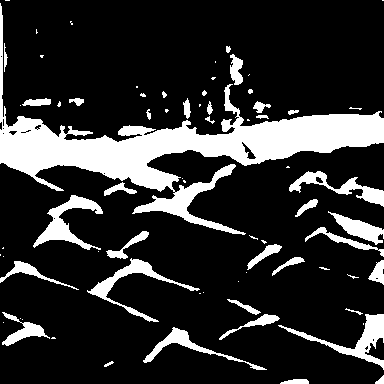
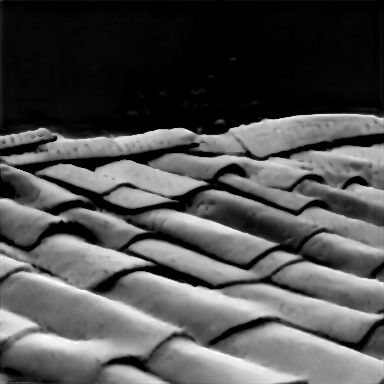
SSAO

diff --git a/Lichen Growth Simulation/SSAO.py b/Lichen Growth Simulation/SSAO.py
@@ -1,0 +1,78 @@
+import numpy as np
+import matplotlib.pyplot as plt
+import cv2
+
+# Load the input depth image
+input_file = 'wall3_depth.png'
+depth_map = cv2.imread(f'./images/input_depth/{input_file}', cv2.IMREAD_GRAYSCALE)
+img_height, img_width = depth_map.shape  # Obtain the dimensions of the image
+
+# SSAO Parameters
+num_samples = 64  # Number of samples
+#radius = 10.0  # Hemisphere radius for samples
+bias = 0.1  # To avoid errors due to the same depth
+occlusion_map = np.zeros((img_height, img_width))
+min_radius = 1  # Minimum radius
+max_radius = min(img_width, img_height) / 8  # Maximum radius, 1/8 of image size
+
+'''
+# Generate random samples on the hemisphere
+def generate_samples(num_samples, radius):
+    samples = []
+    for _ in range(num_samples):
+        theta = np.random.uniform(0, np.pi / 2)  # Hemisphere angle
+        phi = np.random.uniform(0, 2 * np.pi)  # Angle around the vertical axis
+        x = radius * np.sin(theta) * np.cos(phi)
+        y = radius * np.sin(theta) * np.sin(phi)
+        z = radius * np.cos(theta)
+        samples.append((x, y, z))
+    return np.array(samples)
+'''
+
+# Generate random samples on 2D circle
+def generate_samples(num_samples, min_radius, max_radius):
+    samples = []
+    for _ in range(num_samples):
+        angle = np.random.uniform(0, 2 * np.pi)  # Random angle
+
+        # Samples are evenly spread out
+        rad_aux = np.random.uniform(0, 1)
+        radius = np.sqrt(rad_aux) * max_radius
+
+        x = radius * np.cos(angle)  # Coordinate x
+        y = radius * np.sin(angle)  # Coordinate y
+
+        samples.append((x, y))
+    return np.array(samples)
+
+
+# For each pixel, compute SSAO
+for y in range(1, img_height - 1):
+    for x in range(1, img_width - 1):
+        occlusion = 0
+        depth = depth_map[y, x]
+
+        samples = generate_samples(num_samples, min_radius, max_radius)
+
+        # For every sample, see if it is hidden by geometry
+        for sample in samples:
+            sample_x = int(x + sample[0])
+            sample_y = int(y + sample[1])
+            if 0 <= sample_x < img_width and 0 <= sample_y < img_height:
+                sample_depth = depth_map[sample_y, sample_x]
+
+                if sample_depth < depth - bias: # See if the sample is closer than the reference point
+                    occlusion += 1
+
+        # Normalize the result between [0, 1]
+        occlusion_map[y, x] = 1 - (occlusion / num_samples)
+
+# Show results
+plt.imshow(occlusion_map, cmap='gray')
+plt.title("SSAO Map")
+plt.show()
+
+# Save the output image
+output_path = './images/output_SSAO'
+output_file = f'{output_path}/SSAO_{input_file}'
+plt.imsave(output_file, occlusion_map, cmap='gray')

diff --git a/Lichen Growth Simulation/rain.py b/Lichen Growth Simulation/rain.py
@@ -3,14 +3,14 @@ import cv2
 import matplotlib.pyplot as plt
 
 # Load the input image of normals (assume that the image has 3 channels)
-input_file = 'tree1_normal.png'
+input_file = 'teulada2_normal.png'
 normal_img = cv2.imread(f'./images/input_normal/{input_file}')
 
 # Normalize the image between [-1,1]
 normal_img = (normal_img / 255.0) * 2 - 1
 
 # Rain direction (the vertical is (0, 0, 1))
-vertical = np.array([0, 0, 1])
+vertical = np.array([0, -1, 0])
 
 # Compute the dot product
 dot_product = np.sum(normal_img * vertical, axis=2)
@@ -19,11 +19,12 @@ dot_product = np.sum(normal_img * vertical, axis=2)
 rain_threshold = 0
 
 # Create a mask
-rain_mask = dot_product > rain_threshold
+#rain_mask = dot_product > rain_threshold
+highlight_img = np.maximum(dot_product, 0)
 
 # Create new image to show the affected regions
-highlight_img = np.zeros_like(normal_img)  # Black image
-highlight_img[rain_mask, :] = [255, 255, 255]  # Paint with white the affected regions
+#highlight_img = np.zeros_like(normal_img)  # Black image
+#highlight_img[rain_mask, :] = [255, 255, 255]  # Paint with white the affected regions
 
 # Show results
 plt.subplot(1, 2, 1)
@@ -36,8 +37,8 @@ plt.imshow(highlight_img.astype(np.uint8))
 plt.show()
 
 # Save the output image
-highlight_img = np.clip(highlight_img, 0, 1) # Normalize the image between [0,1]
+#highlight_img = np.clip(highlight_img, 0, 1) # Normalize the image between [0,1]
 output_path = './images/output_rain'
 output_file = f'{output_path}/{input_file}_rain.png'
-plt.imsave(output_file, highlight_img)
+plt.imsave(output_file, highlight_img, cmap='gray')
 

diff --git a/Lichen Growth Simulation/region_segmentation.py b/Lichen Growth Simulation/region_segmentation.py
@@ -36,7 +36,7 @@ def region_growing(img, seed, threshold, edge_mask=None):
 
 if __name__ == "__main__":
 
-    input_file = 'tree1_depth.png'
+    input_file = 'tree2_depth.png'
 
     # Read input image
     input_image = cv2.imread(f'./images/input_depth/{input_file}', cv2.IMREAD_GRAYSCALE)
